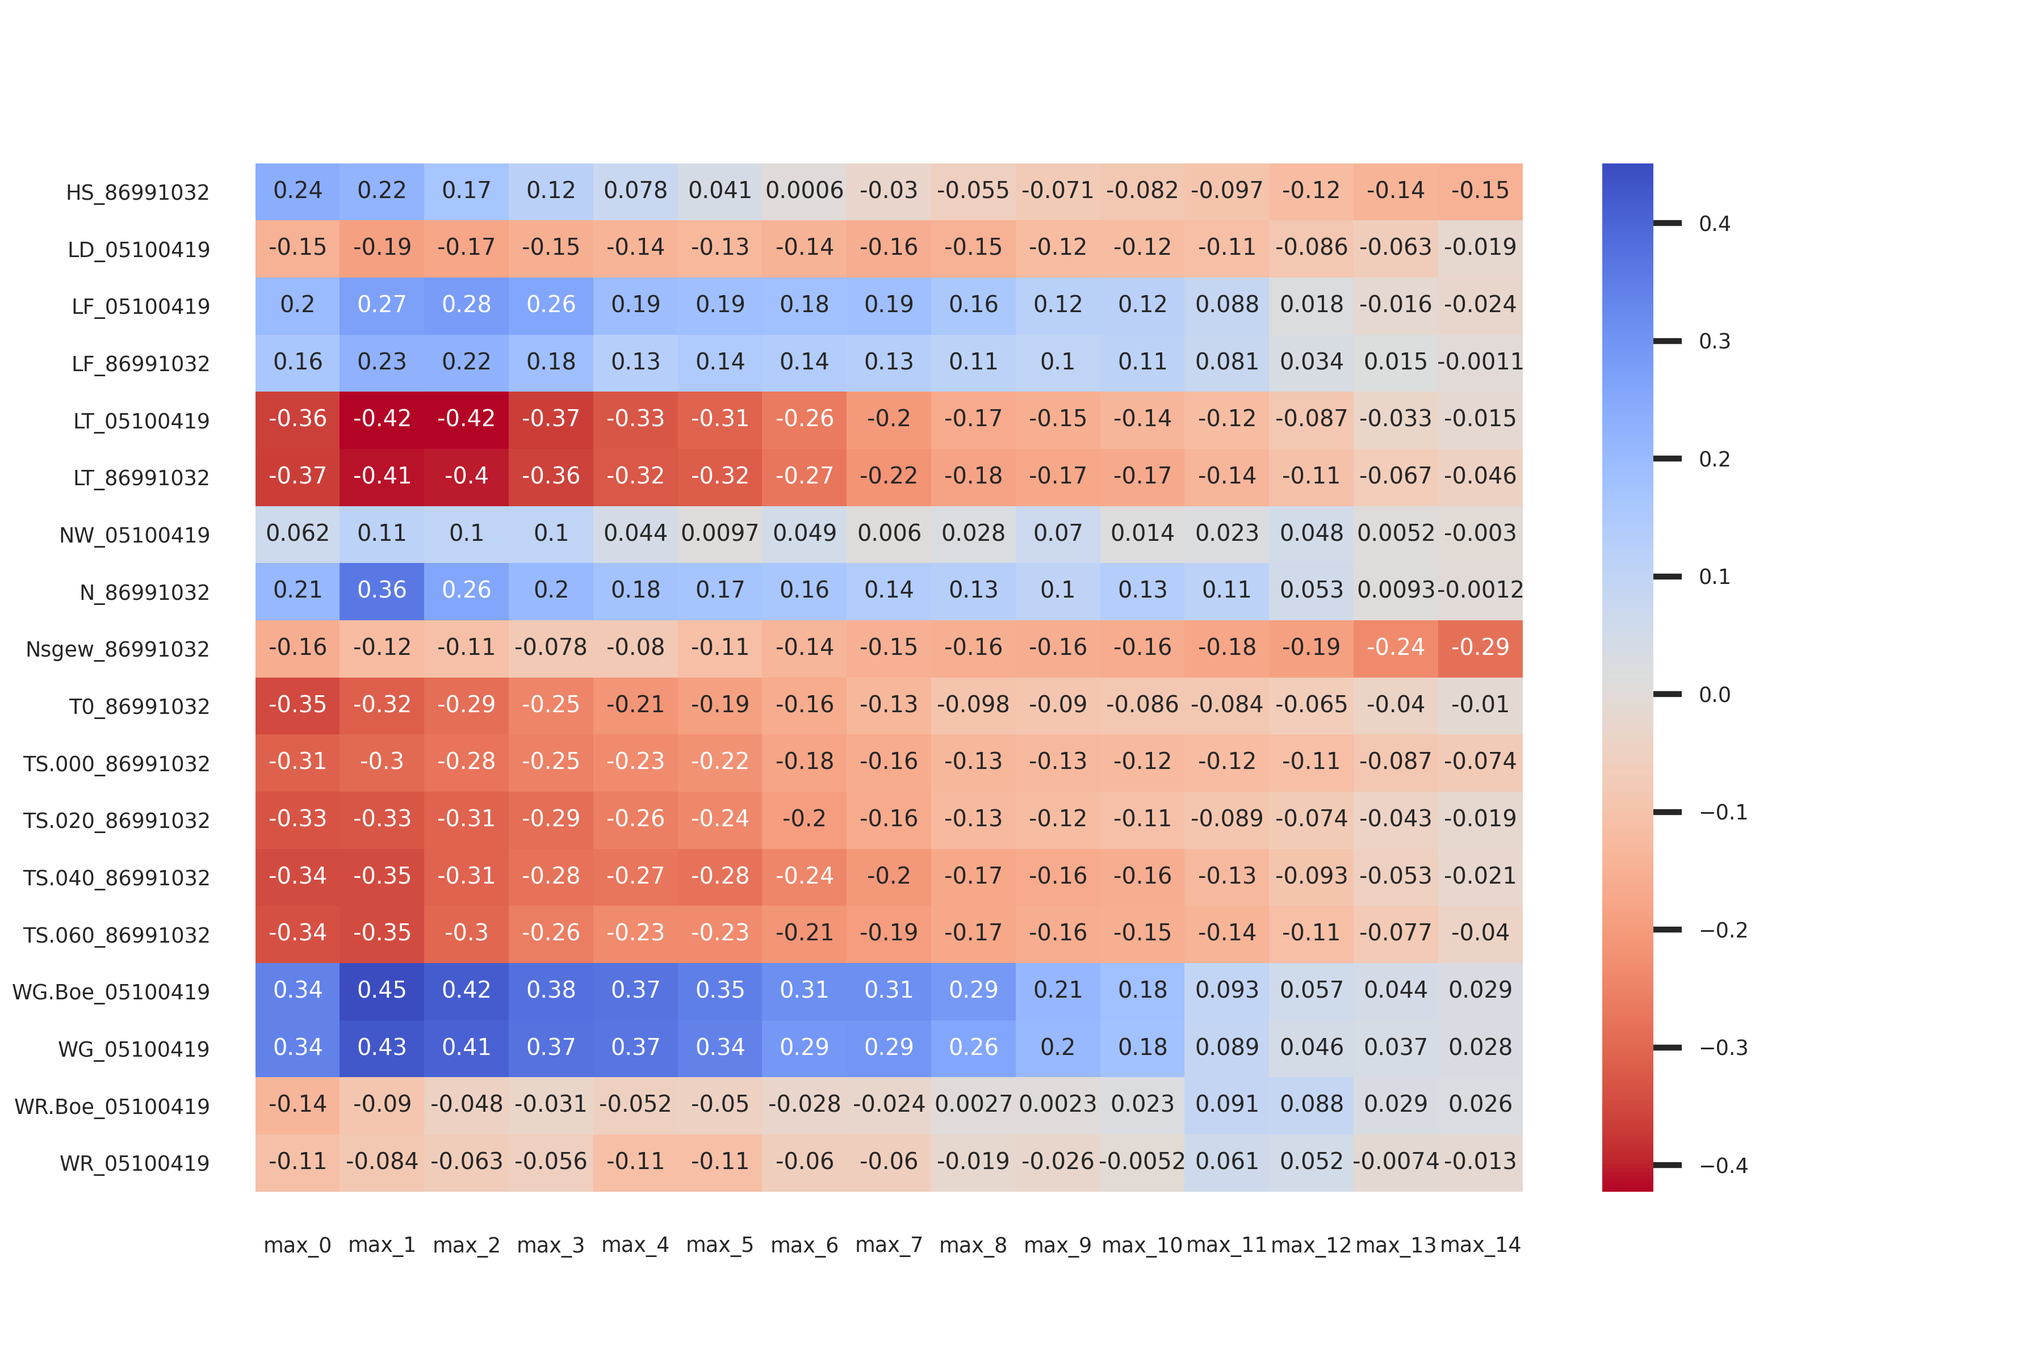
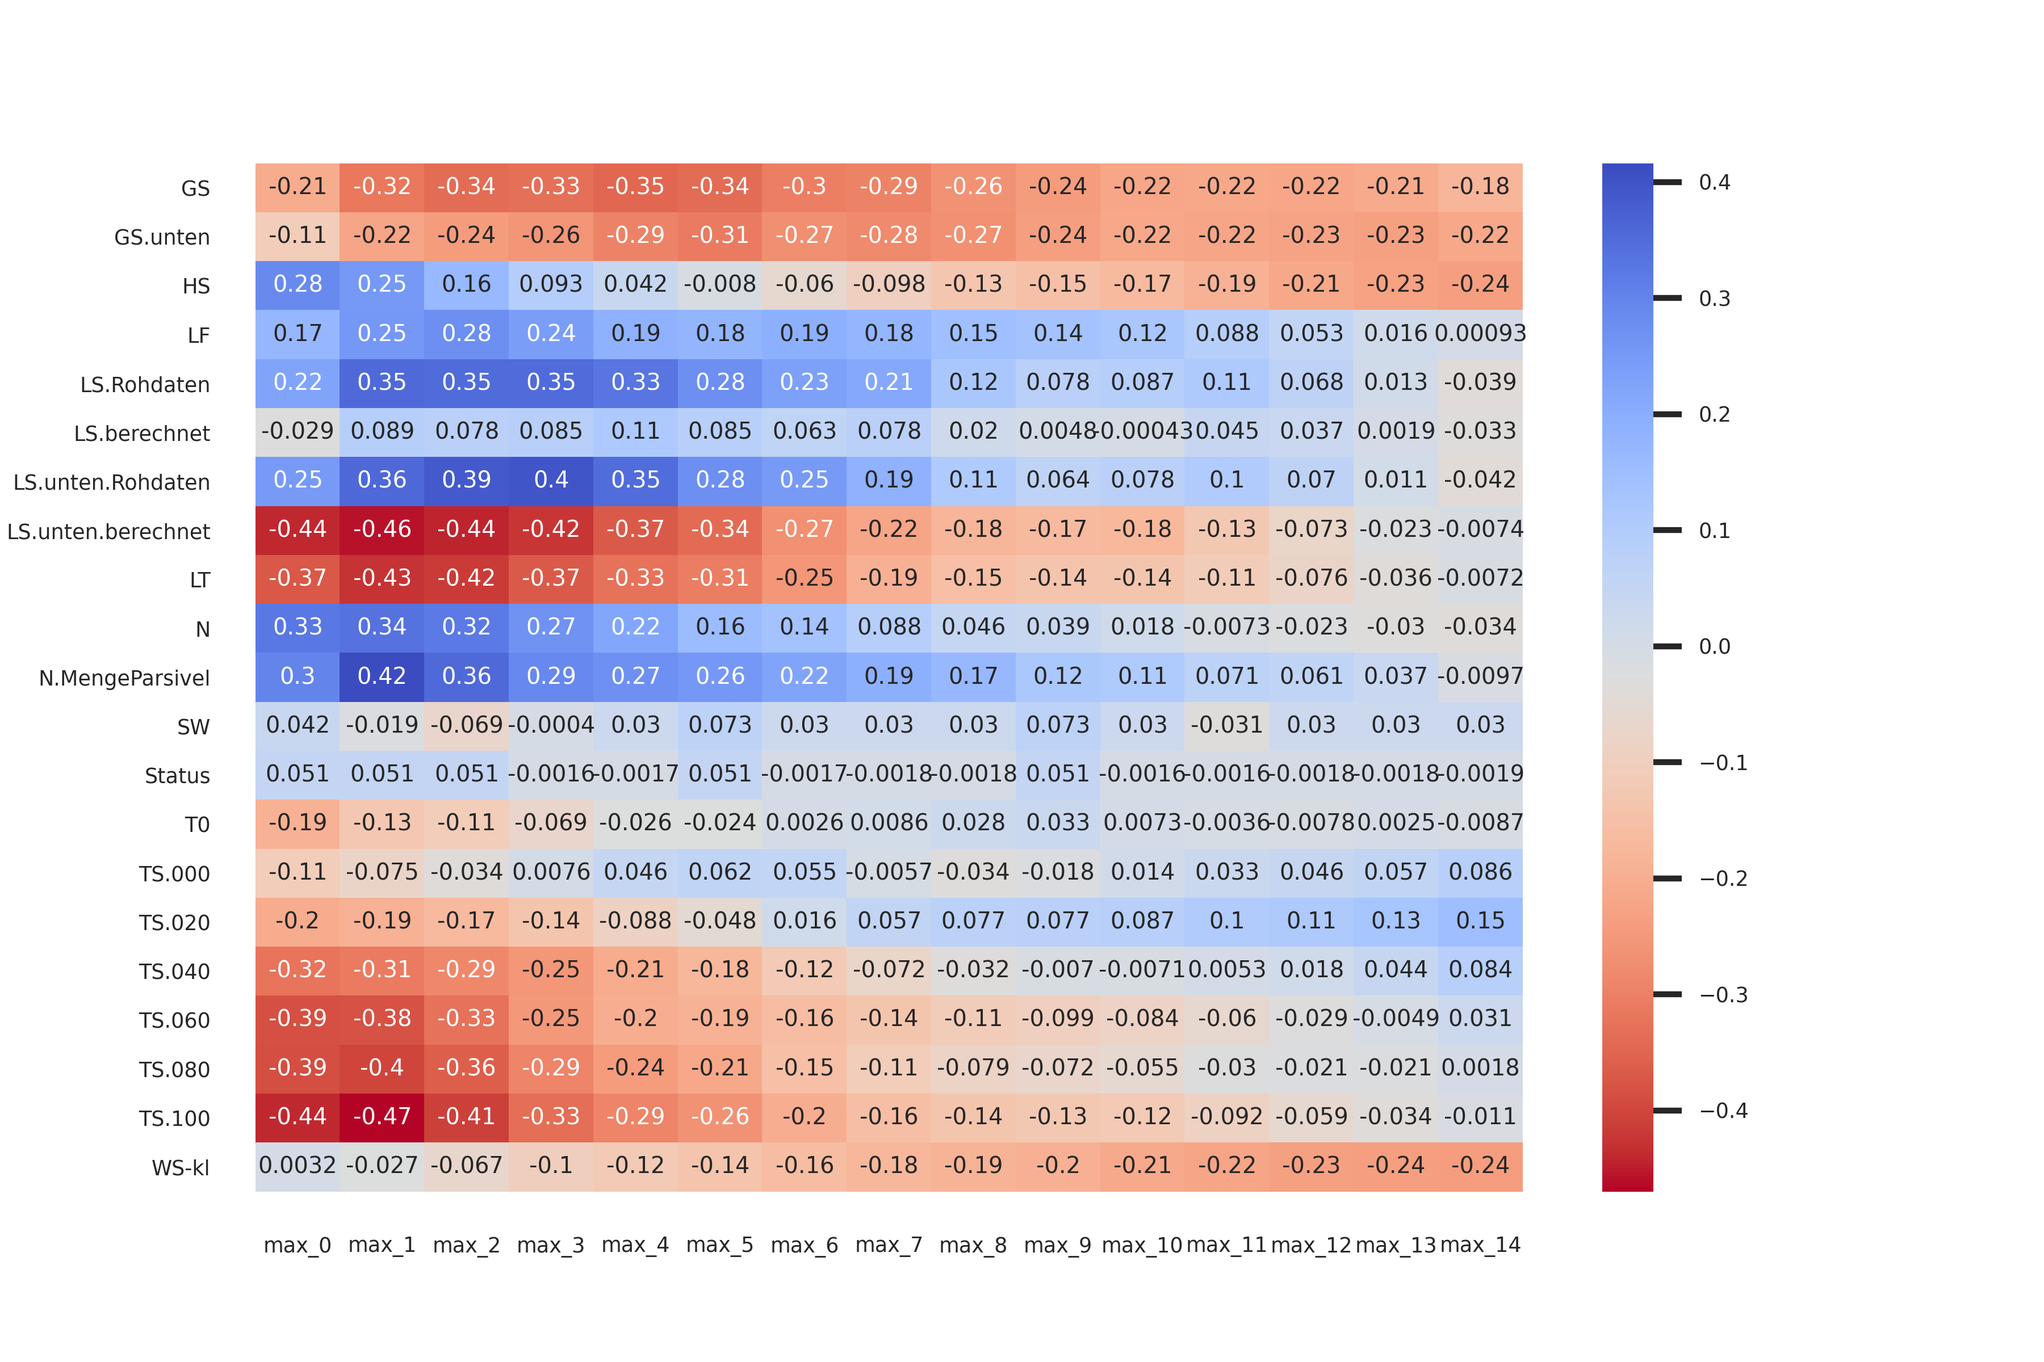
add additional regions

diff --git a/model/functions_model.py b/model/functions_model.py
@@ -2,7 +2,7 @@ from sklearn.impute import KNNImputer
 from sklearn.pipeline import make_pipeline
 from sklearn.preprocessing import MinMaxScaler, PowerTransformer, StandardScaler
 import pandas as pd
-from imblearn.over_sampling import SMOTE
+from imblearn.over_sampling import SMOTE, SMOTENC
 from sklearn.ensemble import RandomForestClassifier
 from sklearn.linear_model import (ElasticNet, Lasso, LinearRegression, LogisticRegression, Ridge)
 from sklearn.tree import DecisionTreeClassifier
@@ -13,6 +13,9 @@ from sklearn.metrics import (classification_report, confusion_matrix,
 from sklearn.model_selection import cross_val_score
 import seaborn as sns
 import numpy as np
+import pickle
+
+WEATHER_FILEPATH = "../data/lawinenwarndienst/weather_data/"
 
 def preprocess_X_values(df, agg_func):
     # Aggregate
@@ -39,14 +42,77 @@ def preprocess(X_train, y_train, agg_func, min_shift, max_shift, include_y, smot
         X_train_prep = X_train_prep.join(y_train)
     X_train_shifted = get_shifted_features(X_train_prep, min_shift = min_shift, max_shift = max_shift)
     # Merge to align date index
-    train = X_train_shifted.join(y_train).dropna(subset = y_train.columns)
+    train = X_train_shifted.join(y_train).dropna(subset = y_train.columns) 
     X = train.iloc[:,:-1]
     y = train.iloc[:,-1]
-    # SMOTE (important: AFTER getting the lags)
+    # # SMOTE (important: AFTER getting the lags)
     if smote:
+        kwargs.setdefault("k_neighbors", 5)
+        assert all(y.value_counts() > kwargs["k_neighbors"]), "SMOTE will fail, because some levels of y have less occurences than 'k_neighbors', which is set to 5 as a standard. Specify a lower 'k_neighbors' via **kwargs or set smote to False (and execute it with a larger dataset)."
         sm = SMOTE(random_state = 10, **kwargs)
         X, y = sm.fit_resample(X, y)
     return X, y
+
+
+def upsample(X, y, **kwargs):
+    kwargs.setdefault("k_neighbors", 5)
+    assert all(y.value_counts() > kwargs["k_neighbors"]), "SMOTE will fail, because some levels of y have less occurences than 'k_neighbors', which is set to 5 as a standard. Specify a lower 'k_neighbors' via **kwargs or set smote to False (and execute it with a larger dataset)."
+    sm = SMOTENC(random_state = 10, **kwargs)
+    X, y = sm.fit_resample(X, y)
+    return X, y
+    
+
+def import_preprocess_region(region, features, agg_func, min_shift, max_shift, include_y, smote):
+    
+    data = pickle.load(open(WEATHER_FILEPATH + f"pickles/{region}.p", "rb"))
+    
+    data = data[features]
+    
+    warning_levels = pickle.load(open("../data/lawinenwarndienst/warning_levels_preprocessed.p", "rb"))
+    warning_levels = warning_levels[(warning_levels.low_high == 1) & (warning_levels.Zone == region)][["Warnstufe"]].astype(int)
+    
+    time_threshold = "2017-08-01"
+
+    X_train_raw = data.loc[data.index < time_threshold]
+    X_test_raw = data.loc[data.index >= time_threshold]
+
+    y_train_raw = warning_levels.loc[warning_levels.index < time_threshold]
+    y_test_raw = warning_levels.loc[warning_levels.index >= time_threshold]
+    
+    # Test for NA-only columns in X_test
+    na_list = X_test_raw.isna().sum() == len(X_test_raw)
+    assert sum(na_list) == 0, f"X_test contains a feature with only NAs: {na_list.index[list(na_list).index(True)]}"
+    
+    X_train, y_train = preprocess(X_train_raw, y_train_raw, agg_func = agg_func, min_shift = min_shift, max_shift = max_shift, include_y = include_y, smote = smote)
+    
+    X_test, y_test = preprocess(X_test_raw, y_test_raw, agg_func = agg_func, min_shift = min_shift, max_shift = max_shift, include_y = include_y, smote = False) # no smote for test data
+    
+    return X_train, y_train, X_test, y_test
+
+def import_preprocess_all_regions(features, agg_func, min_shift, max_shift, include_y, smote):
+    
+    regions = ['allgaeu', 'ammergau', 'werdenfels', 'voralpen', 'chiemgau','berchtesgaden']
+
+    X_train = pd.DataFrame()
+    X_test = pd.DataFrame()
+    y_train = pd.Series()
+    y_test = pd.Series()
+
+    for region in regions:
+        X_train_reg, y_train_reg, X_test_reg, y_test_reg = import_preprocess_region(region, features = features, agg_func = agg_func, min_shift = min_shift, max_shift = max_shift, include_y = include_y, smote = False)
+        X_train_reg["region"] = region
+        X_test_reg["region"] = region
+        X_train = X_train.append(X_train_reg)
+        X_test = X_train.append(X_test_reg)
+        y_train = y_train.append(y_train_reg)
+        y_test = y_test.append(y_test_reg)
+        
+    X_train["region"] = X_train.region.astype("category")
+
+    if smote:
+        X_train, y_train = upsample(X_train, y_train, categorical_features = [X_train.columns.get_loc("region")])
+    
+    return X_train, y_train, X_test, y_test
 
 def fit_model(model, X_train, y_train, **kwargs):
     
@@ -86,7 +152,6 @@ def fit_model(model, X_train, y_train, **kwargs):
     y_pred_clas = m.predict(X_train).round()
     residuals = y_pred_reg - y_train
     return m, y_pred_reg, y_pred_clas, residuals
-
 
 def evaluate_regression(m, y_true, y_pred, X_train, y_train, **kwargs):
     print(f"MSE: {round(mean_squared_error(y_pred, y_true), 3)}\n")

diff --git a/eda/eda_weather.py b/eda/eda_weather.py
@@ -8,23 +8,23 @@ import re
 import numpy as np
 import pandas as pd
 import seaborn as sns
-from functions_general import import_weather_file
+from functions_general import import_files
 from matplotlib import pyplot as plt
 
 from functions_eda import (plot_correlations, plot_missing_values,
                            show_data_overview, correlate_aggregate_per_day, compare_shift_correlations, compare_agg_func_correlations)
 
-WEATHER_FILEPATH = "../data/lawinenwarndienst/weather_data/1-allgaeu/hochgrat-hoermoos/"
+from model.functions_model import preprocess_X_values
+
+# WEATHER_FILEPATH = "../data/lawinenwarndienst/weather_data/1-allgaeu/hochgrat-hoermoos/"
+WEATHER_FILEPATH = "../data/lawinenwarndienst/weather_data/1-allgaeu/fellhorn/1/"
 FILES = os.listdir(WEATHER_FILEPATH)
-METRICS = [re.findall(r"(?<=-).+(?=-)", file)[0] for file in FILES]
+METRICS = [re.findall(r"-(\D.*)-", file) for file in FILES]
 
 
 # * DATA IMPORT ###########################################
 
-dfs = [import_weather_file(WEATHER_FILEPATH, file) for file in FILES]
-data = dfs[0].join(dfs[1:])
-data = data.reindex(sorted(data.columns), axis=1)
-del dfs
+data = import_files(WEATHER_FILEPATH)
 
 warning_levels = pickle.load(open("../data/lawinenwarndienst/warning_levels_preprocessed.p", "rb"))
 warning_levels = warning_levels[(warning_levels.low_high == 1) & (warning_levels.Zone == "Allgäuer Alpen")][["Warnstufe"]].astype(int)
@@ -45,8 +45,11 @@ test = data[data.index >= "2017-08-01"]
 
 # * UNIVARIATE EXPLORATION ##################################
 
+# GS - Global radiation
+show_data_overview(train[["GS"]])
+
 # T0 - Surface temperature
-show_data_overview(train[["T0_86991032"]])
+show_data_overview(train[["T0"]])
 #? Monatsverlauf: Größere Schwankungen / Abstürze
 
 # WG - wind speed
@@ -58,7 +61,8 @@ show_data_overview(train[["WG.Boe_05100419"]])
 #? Bis zu 17% NAs
 
 # N - precipitation
-show_data_overview(train[["N_86991032"]])
+show_data_overview(train[["N"]])
+show_data_overview(train[["N.MengeParsivel"]])
 #? N ist wohl neuer Niederschlag pro Zeitfenster
 
 # LT - air temperature
@@ -106,7 +110,7 @@ show_data_overview(train[["LF_05100419"]]) # snow station
 #? Verteilung sehr linksschief; die meisten Werte bei 100%
 
 # HS - SNOW HEIGHT
-show_data_overview(train[["HS_86991032"]])
+show_data_overview(train[["HS"]])
 #? MW = 30, Median = 0
 
 # NW - PRECIPITATION BOOLEAN 
@@ -115,9 +119,17 @@ show_data_overview(train[["NW_05100419"]])
 #? In 6% Niederschlag
 
 # LT - AIR TEMPERATURE 
-show_data_overview(train[["LT_05100419"]]) # snow station
-show_data_overview(train[["LT_86991032"]]) # snow station
+show_data_overview(train[["LT"]])
 #? Viel Rauschen
+
+# WS - SNOW PILLOW WASSERSÄULE ???
+# The snow pillow measures the water equivalent of the snow pack based on hydrostatic pressure created by overlying snow.
+show_data_overview(train[["WS-kl"]])
+show_data_overview(train[["SW"]])
+
+# Status - ???
+show_data_overview(train[["Status"]])
+
 
 
 # * MULTIVARIATE EXPLORATION #####################
@@ -159,6 +171,19 @@ for agg_func in ["mean", "max", "min", "sum"]:
     fig = sns.heatmap(shift_corr, cmap = "coolwarm_r", annot = True)
     fig.figure.savefig(f"output/corr_shift_{agg_func}.png", dpi = 600, facecolor = 'white', transparent = False)
 #? Shift von 1 bis 2 hat stärkere Korrelationen als die Daten am selben Tag (logisch)
+
+def compare_agg_funcs(df, y):
+    agg_funcs = ["mean", "max", "min", "sum", "median"]
+    compare_agg_func = pd.DataFrame(columns = agg_funcs, index = df.columns)
+    for column in df:
+        for agg in agg_funcs:
+            prep = preprocess_X_values(df[[column]], agg_func = agg)
+            prep = prep.join(y).dropna(subset = y.columns)
+            compare_agg_func.loc[column, agg] = prep.corr()[y.columns[0]][0]
+    sns.heatmap(np.abs(compare_agg_func.fillna(0)), annot = True, cmap = "Greys")
+    return compare_agg_func
+compare_agg_funcs(train, warning_levels)
+#? mean erzielt insgesamt die besten Ergebnisse und ist für alle Variablen halbwegs ok
 
 # RELATION TO TARGET VARIABLE
 # Mean - shift 1

diff --git a/model/model.py b/model/model.py
@@ -10,54 +10,21 @@ import numpy as np
 import pandas as pd
 import seaborn as sns
 from eda.functions_eda import plot_correlations, plot_missing_values
-from functions_general import import_weather_file
+from functions_general import import_files, import_weather_file
 from matplotlib import pyplot as plt
-from sklearn.metrics import (classification_report, confusion_matrix,
-                             mean_squared_error, r2_score)
-from sklearn.model_selection import cross_val_score
-from sklearn.tree import plot_tree
 
-from functions_model import (fit_model, get_shifted_features, preprocess, preprocess_X_values, evaluate_regression, evaluate_classification)
-
-
-WEATHER_FILEPATH = "../data/lawinenwarndienst/weather_data/1-allgaeu/hochgrat-hoermoos/"
-FILES = os.listdir(WEATHER_FILEPATH)
-METRICS = [re.findall(r"(?<=-).+(?=-)", file)[0] for file in FILES]
-
+from functions_model import (fit_model, preprocess, evaluate_regression, evaluate_classification, preprocess_X_values, import_preprocess_region, import_preprocess_all_regions)
 
 # * DATA IMPORT ###########################################
+regions = ['allgaeu', 'ammergau', 'werdenfels', 'voralpen', 'chiemgau','berchtesgaden']
+features = pickle.load(open("../data/lawinenwarndienst/intersecting_metrics.p", "rb")) # load intersecting metrics
 
-dfs = [import_weather_file(WEATHER_FILEPATH, file) for file in FILES]
-data = dfs[0].join(dfs[1:])
-data = data.reindex(sorted(data.columns), axis=1)
-del dfs
+X_train, y_train, X_test, y_test = import_preprocess_region("allgaeu", features = features, agg_func = "mean", min_shift = 1, max_shift = 2, include_y = True, smote = True)
 
-warning_levels = pickle.load(open("../data/lawinenwarndienst/warning_levels_preprocessed.p", "rb"))
-warning_levels = warning_levels[(warning_levels.low_high == 1) & (warning_levels.Zone == "Allgäuer Alpen")][["Warnstufe"]].astype(int)
+X_train, y_train, X_test, y_test = import_preprocess_all_regions(features, agg_func = "mean", min_shift = 1, max_shift = 2, include_y = True, smote = True)
 
-
-# * TRAIN TEST SPLIT #######################################
-
-# plot_correlations(data, labels = data.columns) # see correlated features
-
-col_to_retain = ["HS_86991032", "LD_05100419", "LF_05100419", "LT_86991032", "N_86991032", "T0_86991032", "TS.060_86991032", "WG_05100419", "WR_05100419"]
-
-time_threshold = "2017-08-01"
-
-# Threshold: August 2017
-X_train_raw = data.loc[data.index < time_threshold, col_to_retain]
-X_test_raw = data.loc[data.index >= time_threshold, col_to_retain]
-
-y_train_raw = warning_levels.loc[warning_levels.index < time_threshold]
-y_test_raw = warning_levels.loc[warning_levels.index >= time_threshold]
-
-
-# * DATA PREPROCESSING #####################################
-
-X_train, y_train = preprocess(X_train_raw, y_train_raw, agg_func = "mean", min_shift = 1, max_shift = 1, include_y = True, smote = True)
 
 # * MODELING ################################################
-
 
 #! logreg parameter c. Like in support vector machines, smaller values specify stronger regularization.
 
@@ -83,6 +50,8 @@ evaluate_classification(m, y_train, y_pred, X_train, y_train, scoring = "accurac
 
 # Precision: Percentage of positive classified observations that are positive
 # Recall: Percentage of positive observations correctly classified as positive
+
+
 
 
 

diff --git a/eda/data_wrangling.py b/eda/data_wrangling.py
@@ -1,0 +1,38 @@
+import sys
+
+sys.path.append("/home/daniel/Schreibtisch/Projekte/avalanche-risk")
+
+import os
+import pickle
+import re
+
+import numpy as np
+import pandas as pd
+from functions_general import import_files, import_weather_file
+
+
+WEATHER_FILEPATH = "../data/lawinenwarndienst/weather_data/"
+
+METRICS_PER_STATION = pickle.load(open("../data/lawinenwarndienst/metrics_per_station.p", "rb"))
+METRICS_PER_REGION = pickle.load(open("../data/lawinenwarndienst/metrics_per_region.p", "rb"))
+FILEPATHS = pickle.load(open("../data/lawinenwarndienst/filepaths_stations.p", "rb"))
+FILEPATHS_PER_REGION = pickle.load(open("../data/lawinenwarndienst/filepaths_regions.p", "rb"))
+
+
+# Get Intersecting variables of all regions
+sets = [set(a) for a in METRICS_PER_REGION.values()]
+intersecting_metrics = list(sets[0].intersection(*sets))
+
+
+# Import all (non-overlapping) metrics per region and pickle them
+# In case of overlapping metrics, only one instance of this metric is taken
+for region in FILEPATHS_PER_REGION.keys():
+    region_df = pd.DataFrame(index = pd.date_range(start = "09-01-2012", end = "07-01-2018", freq = "10min")) # format: month-day-year!
+    region_df["region"] = region
+    for station in FILEPATHS_PER_REGION[region]:
+        print(f"Importing {station}...")
+        data = import_files(station)
+        columns_to_append = [column for column in data.columns if column not in region_df.columns]
+        region_df = region_df.join(data[columns_to_append])
+    pickle.dump(region_df, open(f"../data/lawinenwarndienst/weather_data/pickles/{region}.p", "wb"))
+    

diff --git a/functions_general.py b/functions_general.py
@@ -1,10 +1,18 @@
 import re
 import pandas as pd
+import os
 
 def import_weather_file(folder, file):
-    metric = re.findall(r"(?<=-).+(?=-)", file)[0]
+    metric = re.findall(r"-(\D.*)-", file)[0]
     station = re.findall(r"\d{8}", file)[0]    
-    df = pd.read_csv(folder + file, index_col = 0, skiprows = 15, names = [f"{metric}_{station}"], delimiter = ";", header = None, na_values = ["---"], decimal = ",", parse_dates = False)
+    df = pd.read_csv(folder + file, index_col = 0, skiprows = 15, names = [metric], delimiter = ";", header = None, na_values = ["---"], decimal = ",", parse_dates = False)
     df.index = pd.to_datetime(df.index, format="%d.%m.%Y %H:%M:%S")
     # df["station"] = station
     return df
+
+def import_files(filepath):
+    files = os.listdir(filepath)
+    dfs = [import_weather_file(filepath, file) for file in files]
+    data = dfs[0].join(dfs[1:])
+    data = data.reindex(sorted(data.columns), axis=1)
+    return data

diff --git a/eda/functions_eda.py b/eda/functions_eda.py
@@ -35,12 +35,13 @@ def show_data_overview(df):
     print(f"\nValue counts:\n{df.iloc[:,0].value_counts(normalize = True, dropna = False)}\n")
     df.plot(kind = "hist", bins = 20)
     
-def plot_missing_values(df, labels, **kwargs): 
+def plot_missing_values(df, **kwargs): 
+    kwargs.setdefault("aspect", 0.004)
     plt.tight_layout()
     fig, ax = plt.subplots()
     im = ax.imshow(df.isna().astype(int).to_numpy(), cmap = "magma", interpolation = "nearest", **kwargs)
     ax.set_xticks(np.arange(df.shape[1]))
-    ax.set_xticklabels(labels, rotation = 90)
+    ax.set_xticklabels(df.columns, rotation = 90)
     return fig
 
 def plot_correlations(df, labels):

diff --git a/testing/test_functions.py b/testing/test_functions.py
@@ -1,0 +1,20 @@
+import sys
+
+sys.path.append("/home/daniel/Schreibtisch/Projekte/avalanche-risk")
+
+import pandas as pd
+import numpy as np
+from model.functions_model import preprocess_X_values, get_shifted_features
+import pytest
+
+@pytest.fixture 
+def df(): 
+    df = pd.DataFrame([["a", "1"], ["b", "2"], ["c", "3"], ["d", "4"]], index = [1, 2, 3, 4], columns = ["A", "B"])
+    return df
+
+def test_get_shifted_features1(df):
+    result = get_shifted_features(df, min_shift = 1, max_shift = 2)
+    assert len(result) == 2
+    assert result.columns.tolist() == ['A-1', 'B-1', 'A-2', 'B-2']
+    assert result.loc[3, "A-1"] == "b"
+    

diff --git a/eda/eda_warnings.py b/eda/eda_warnings.py
@@ -27,7 +27,7 @@ def separate_zones(df):
 
 df_long = separate_zones(df_zones_dangers)
 df_long = df_long[~(df_long["danger_level"] == "0")]
-df_long["zone"] = df_long["zone"].replace([1, 2, 3, 4, 5, 6], ["Allgäuer Alpen", "Ammergauer Alpen", "Werdenfelser Alpen", "Bayerische Voralpen", "Chiemgauer Alpen", "Berchtesgadener Alpen"])
+df_long["zone"] = df_long["zone"].replace([1, 2, 3, 4, 5, 6], ["allgaeu", "ammergau", "werdenfels", "voralpen", "chiemgau", "berchtesgaden"])
 df_long = df_long.rename(columns = {"zone": "Zone", "danger_level": "Warnstufe"})
 
 df_long["Saison"] = 1
